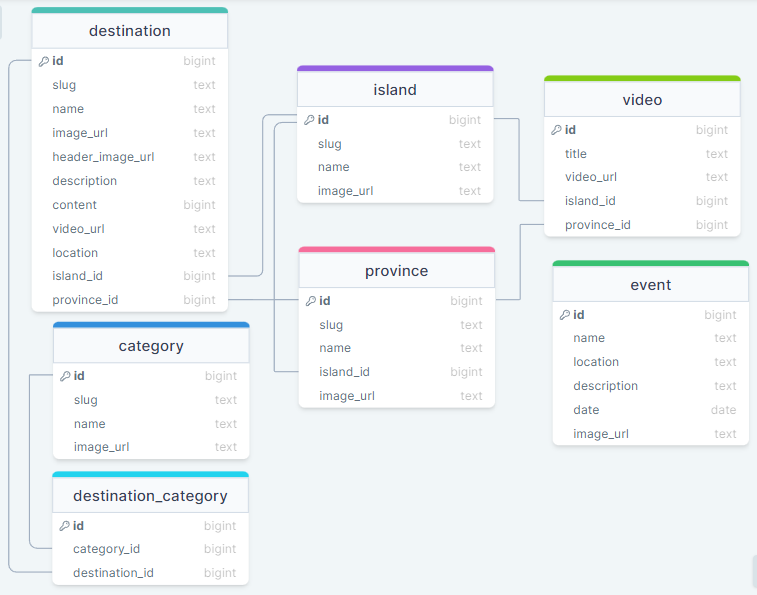
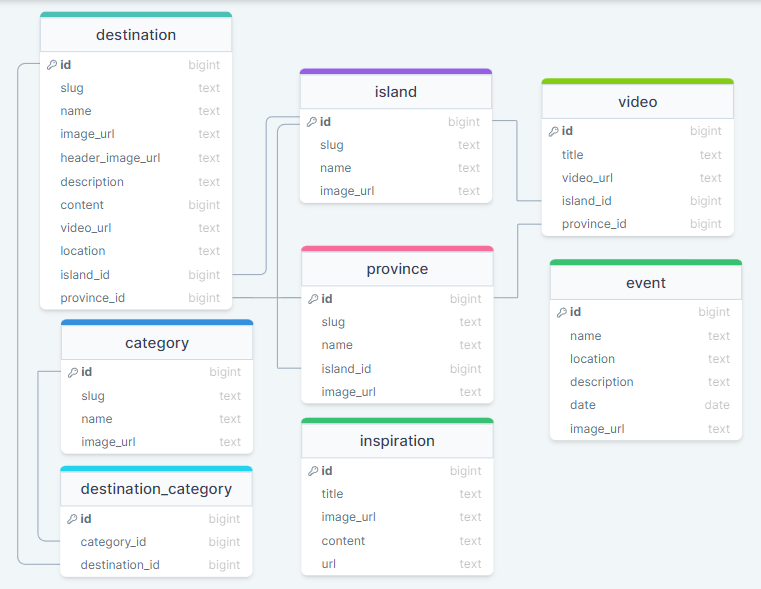
feat: create Inspiration API endpoint

diff --git a/pages/api/inspiration/index.ts b/pages/api/inspiration/index.ts
@@ -1,0 +1,144 @@
+import { NextApiRequest, NextApiResponse } from 'next';
+import { z } from 'zod';
+
+import { getSessionToken, supabase, writeLogs } from '@/libs/supabase';
+
+const schema = z.object({
+  title: z.string().min(1, { message: 'Title is required' }),
+  // image_url: z.string().min(1, { message: 'Image URL is required' }).url({ message: 'Invalid Image URL' }),
+  // TODO Docs https://zod.dev/?id=unions
+  image_url: z.string().url({ message: 'Invalid Image URL' }),
+  // TODO Docs https://github.com/colinhacks/zod/discussions/1254#discussioncomment-6395482
+  url: z.string().url({ message: 'Invalid Content URL' }).optional().or(z.literal('')),
+  content: z.string().min(50, { message: 'Content must be 50 or more characters long' }),
+});
+
+export default async function handler(req: NextApiRequest, res: NextApiResponse) {
+  const { method, body, query } = req;
+  const header = req.headers.authorization;
+  const token = req.headers.authorization?.split(' ')[1] || '';
+
+  switch (method) {
+    case 'GET':
+      if (!query.id) {
+        // api/inspiration
+        const { data } = await supabase.from('vacation_inspiration').select(`*`).order('id');
+        res.status(200).json(data);
+        return;
+      } else {
+        // api/inspiration?id=1
+        const { data } = await supabase
+          .from('vacation_inspiration')
+          .select(`*`)
+          .eq('id', query?.id)
+          .order('id');
+        // TODO Docs https://nextjs.org/docs/api-reference/next.config.js/headers#cache-control
+        res.setHeader('Cache-Control', 'public, s-maxage=10, stale-while-revalidate=59');
+        res.status(200).json({ ...data[0] });
+      }
+      break;
+
+    case 'POST':
+      // Check session
+      const sessionPost = await getSessionToken(res, header, token);
+      if (sessionPost) {
+        const isValid = schema.safeParse(body);
+        // TODO Docs https://github.com/colinhacks/zod/issues/1190#issuecomment-1171607138
+        if (isValid.success == false) {
+          res.status(422).json({ message: isValid.error.issues });
+          return;
+        } else {
+          // insert inspiration
+          const { error } = await supabase
+            .from('vacation_inspiration')
+            .insert([
+              {
+                title: body.title,
+                image_url: body.image_url,
+                url: body.url,
+                content: body.content,
+              },
+            ])
+            .select();
+          if (error) {
+            res.status(422).json({ message: error.message });
+            return;
+          }
+          // Write logs
+          const errorLogs = await writeLogs(sessionPost.user_id, 'create', 'inspiration');
+          if (errorLogs) {
+            res.status(422).json({ message: error.message });
+            return;
+          }
+          res.status(200).json({ message: 'Success add inspiration' });
+        }
+      }
+      break;
+
+    case 'PUT':
+      // Check session
+      const sessionPut = await getSessionToken(res, header, token);
+      if (sessionPut) {
+        const isValid = schema.safeParse(body);
+        // TODO Docs https://github.com/colinhacks/zod/issues/1190#issuecomment-1171607138
+        if (isValid.success == false) {
+          res.status(422).json({ message: isValid.error.issues });
+          return;
+        } else {
+          // update inspiration
+          const { error } = await supabase
+            .from('vacation_inspiration')
+            .update({
+              title: body.title,
+              image_url: body.image_url,
+              url: body.url,
+              content: body.content,
+            })
+            .eq('id', body.id);
+          if (error) {
+            res.status(422).json({ message: error.message });
+            return;
+          }
+          // Write logs
+          const errorLogs = await writeLogs(sessionPut.user_id, 'update', 'inspiration', body.id);
+          if (errorLogs) {
+            res.status(422).json({ message: error.message });
+            return;
+          }
+          res.status(201).json({ message: 'Success update inspiration' });
+          return;
+        }
+      }
+      break;
+
+    case 'DELETE':
+      // Check session
+      const sessionDelete = await getSessionToken(res, header, token);
+      if (sessionDelete) {
+        if (!query.id) {
+          res.status(422).json({ message: 'Id required' });
+          return;
+        } else {
+          const { error } = await supabase.from('vacation_inspiration').delete().eq('id', query.id);
+          if (error) {
+            res.status(422).json({ message: error.message, detail: error.details });
+            return;
+          }
+          // Write logs
+          const errorLogs = await writeLogs(sessionDelete.user_id, 'delete', 'inspiration', query.id);
+          if (errorLogs) {
+            res.status(422).json({ message: error.message });
+            return;
+          }
+          res.status(200).json({ message: 'Success delete inspiration' });
+          return;
+        }
+      }
+      break;
+
+    default:
+      res.setHeader('Allow', ['GET', 'POST', 'PUT', 'DELETE']);
+      res.status(405).end(`Method ${method} Not Allowed`);
+      break;
+  }
+}

diff --git a/libs/swr.ts b/libs/swr.ts
@@ -125,6 +125,17 @@ export function useProvinceData(id: string, slug?: boolean) {
   return { data, error, isLoading };
 }
 
+// Inspiration
+export function useInspirationsData() {
+  const { data, error, isLoading } = useSWR(`${API_URL}/inspiration`, fetcher, { refreshInterval: 1000 });
+  return { data, error, isLoading };
+}
+
+export function useInspirationData(id: string) {
+  const { data, error, isLoading } = useSWR(`${API_URL}/inspiration?id=${id}`, fetcher, { refreshInterval: 1000 });
+  return { data, error, isLoading };
+}
+
 // Search
 export function useSearchData(query: string | string[]) {
   const { data, error, isLoading } = useSWR(`${API_URL}/search?q=${query}`, fetcher);

diff --git a/pages/api/generate/destination-category.ts b/pages/api/generate/destination-category.ts
@@ -1,7 +1,4 @@
 import { NextApiRequest, NextApiResponse } from 'next';
-import slug from 'slug';
-
-import destination from '@/data/destination.json';
 import { supabase } from '@/libs/supabase';
 
 export default async function handler(req: NextApiRequest, res: NextApiResponse) {
